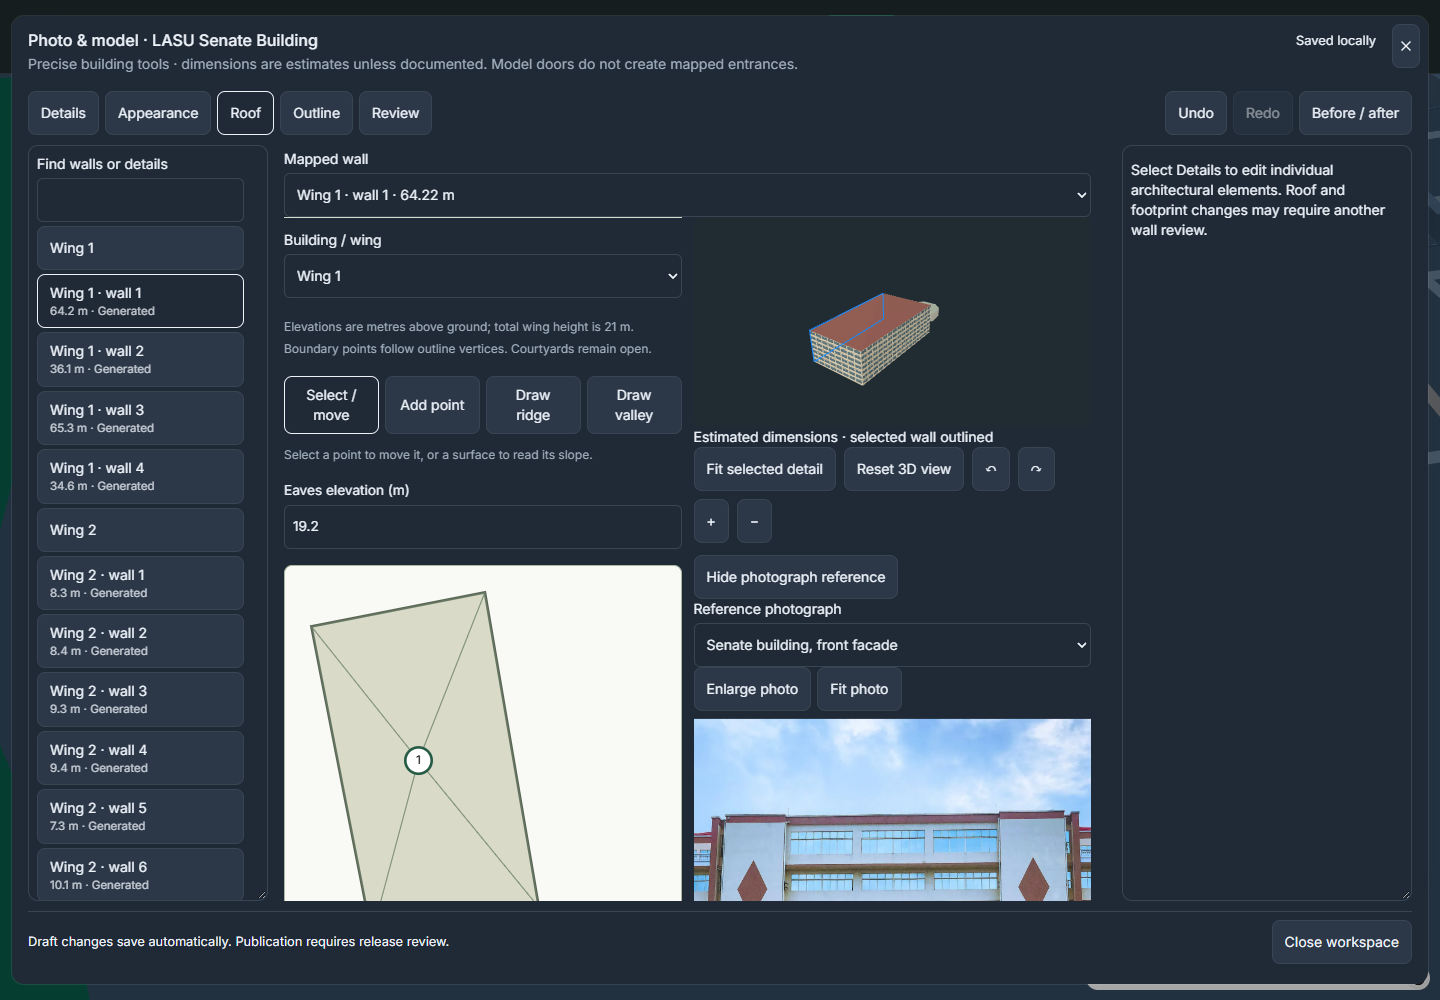
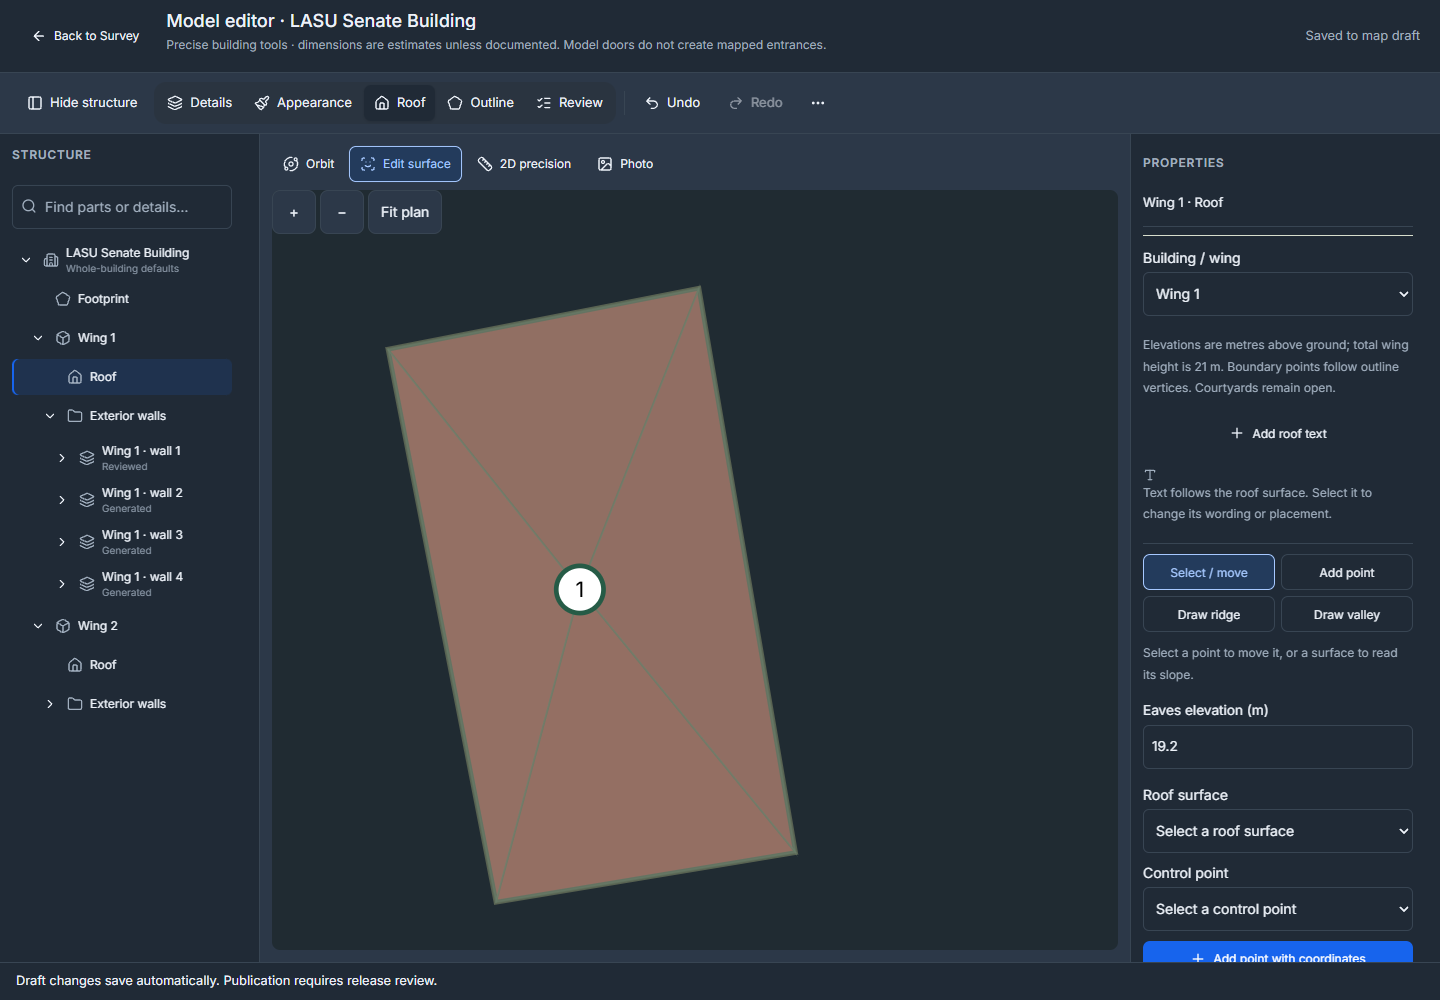
docs: refresh 34 feature screenshots and record final verification

diff --git a/docs/assets/screenshots/README.md b/docs/assets/screenshots/README.md
@@ -1,14 +1,47 @@
 # Application screenshots
 
+## Current surface-editing gallery · 25 September 2026
+
+The root README contains **34 distinct, unaltered PNG screenshots** from the current production build. The verified campus is **`lasu-623791e1184e`**: 395 buildings, 220 places, 39 photographs covering 19 buildings, and 84 package assets totaling 20,098,125 bytes. Owner/API responses are isolated. No production account, private upload, survey or draft is captured or modified. Windows and wall/roof lettering added in the editor are illustrative local examples, not published architectural evidence.
+
+The 26 filename prefixes listed in the earlier inventory below have all been refreshed with the current UI and campus. Eight additional captures, also ending in `-2026-09-25.png`, cover:
+
+| Filename prefix | Current view |
+| --- | --- |
+| `editor-model-wall-text` | Wall lettering with wording and size controls |
+| `editor-model-roof-text` | Roof lettering and properties |
+| `editor-model-tree-actions` | Nested structure, selected window and Ungroup |
+| `editor-model-orbit-current` | Orbit restored after surface editing |
+| `editor-model-landscape` | Model beside one editing panel at 844 × 390 |
+| `editor-sources-current` | Source review and baseline status |
+| `editor-releases-current` | Model review blockers before publication |
+| `editor-survey-current` | Survey workspace before recording |
+
+The building card now shows one Edit model button and a read-only summary. The desktop workspace opens in Orbit. Roof and footprint captures use surface-aligned editing; mobile retains a separate 2D precision example. Desktop images are 1440 × 1000, desktop globe 1440 × 900, portrait 390 × 844, and landscape 844 × 390. Public screens block service workers to avoid an older installed UI. The offline screenshot shows download controls, not proof of a disconnected session. Walking previews use a manual Clinic origin without GPS; the survey screenshot does not start recording.
+
+### Capture the current gallery
+
+From `web/`, use Node 22 and installed dependencies. Fetch and verify the public manifest and its assets with `preservePublished('work/model-benchmark/public', 'https://turnright.vercel.app', true)` from `scripts/published-assets.mjs`, then run:
+
+```sh
+npx playwright test --config playwright.docs.config.ts
+```
+
+The project builds a local production app, supplies isolated owner responses and serves the verified campus. Screenshot paths resolve against the repository regardless of the shell working directory. Run it separately from other GPU browser suites. `TURNRIGHT_DOCS_EDITOR_ONLY=1` refreshes owner views; `TURNRIGHT_DOCS_ROUTES_ONLY=1` refreshes walking previews. Inspect the actual images and update provenance after recapture. Use a new date for a later capture. These Chromium/SwiftShader screenshots do not replace physical-phone, native-keyboard or screen-reader acceptance. See [current verification](../../MODEL-EDITOR-VERIFICATION.md).
+
+## Earlier capture records
+
+The records below describe earlier capture runs. Their counts, package versions and workflow labels are historical. The current gallery above supersedes the earlier 26-image run and landscape capture. Earlier `editor-model-3d-hold`, `editor-release-review-*` and `public-globe-location` files remain regression archives and are excluded from the current README gallery.
+
 The additional `editor-model-landscape-2026-09-25.png` (844 × 320) and `editor-model-3d-hold-2026-09-25.png` (740 × 390) captures show the current Close button, landscape side tools and touch-held 3D actions. They are unaltered Chromium development-server regression captures of an isolated Library fixture, with no private owner content. Run the `landscape model has` and `3D touch hold` browser journeys, then copy their `landscape-reviewed.png` and `3d-long-press-actions.png` test outputs after inspection. The earlier 26-image production-build gallery is retained.
 
 `public-globe-location-2026-09-25.png` shows the live location label and facing cone with **simulated** GPS and orientation, using the real globe renderer and isolated public place fixture. Reproduce with the `globe retains live` browser journey and its `globe-live-location.png` output. It is a UI regression capture, not field-location or sensor-accuracy evidence. Together these three additions bring the README to 29 distinct captures without removing the earlier views.
 
 The additional `editor-release-review-390-2026-09-25.png` and `editor-release-review-1440-2026-09-25.png` captures show named model-release blockers using the isolated Library browser-test fixture. They are development-server regression captures, not production-campus evidence. Regenerate with `TURNRIGHT_CAPTURE_RELEASE=1` and the `release preflight opens` browser tests. The 26 varied production-build README images below remain intact.
 
-## Current unified editor and public gallery
+## Earlier 26-image gallery record
 
[2 lines of base64/hex data omitted]
 
 All current public and owner views are captured by `web/playwright.docs.config.ts`, including the eight focused mobile model views. Public screenshots block service workers to avoid an older installed UI. Offline-download screenshots show the actual interface state, not proof of a disconnected session. Separate production PWA journeys verify preparation and offline reloads.
 

diff --git a/docs/MODEL-EDITOR-VERIFICATION.md b/docs/MODEL-EDITOR-VERIFICATION.md
@@ -27,7 +27,7 @@ validation, save-compatible meshes, draft/public review separation, courtyard
 winding, roof constraints, camera/pointer coordinates and tree references. Client
 and server TypeScript and lint pass with **seven pre-existing warnings**.
 
-**14 focused Chromium cases pass** across the final run and corrected camera-startup follow-up. Browser coverage checks creation, saving/reopening, selection/focus, ungrouping,
+**Three WebKit rotation/landscape workflows pass**, repeated after the final surface fixes. **14 focused Chromium cases pass** across the final run and corrected camera-startup follow-up. Browser coverage checks creation, saving/reopening, selection/focus, ungrouping,
 detachment, text properties and invalid placement, shared roof/footprint edits,
 undo, camera restoration, renderer identity and WebGL startup fallback. Responsive
 checks include 1280×720, 1440×900, 1920×1080 and effective CSS viewport sizes for
@@ -36,8 +36,8 @@ Rotation and keyboard tests simulate browser viewport events and preserve an
 unfinished field. They do not operate physical keyboards or browser zoom chrome.
 
 The configured production build retains all budgets: lazy 3D/editor 217.6 KiB
-gzip (300 KiB limit), public startup about 426 kB (435,200-byte limit), owner
-additional about 184 kB (189,440-byte limit), photo manager 7.6 kB (12,288-byte
+gzip (300 KiB limit), public startup 425,879 gzip bytes (435,200-byte limit), owner
+additional 183,533 bytes (189,440-byte limit), photo manager 7,635 bytes (12,288-byte
 limit), world 5.30 MiB and voice 5.91 MiB / 362 clips (each 8 MiB limit).
 Shared icons remain outside the owner entry; auth-configured checks verify this
 boundary and offline precache inclusion.

diff --git a/docs/BUILDING-EDITOR.md b/docs/BUILDING-EDITOR.md
@@ -14,7 +14,7 @@ The workspace opens in Orbit. Selecting a tree row or mesh shares selection with
 
 ## Select and place
 
-Use the searchable hierarchy, mapped-wall list, face-on canvas or selectable 3D preview. Walls show their mapped length and review state; dimensions are measured from the labelled endpoint and model base. Numeric fields use metres at the editing boundary while saved façade coordinates remain compatible with existing renderers.
+Use the searchable hierarchy, mapped-wall list, face-on canvas or selectable 3D preview. Walls show mapped length and review state. Front views label A → B or B → A to face outside; numeric positions retain distance from the original A endpoint and model base. Numeric fields use metres at the editing boundary while saved façade coordinates remain compatible with existing renderers.
 
 Move and resize on the canvas, enter dimensions, or nudge with arrow keys. The grid offers 0.01, 0.1 and 1 metre increments; Shift multiplies a nudge by ten and Alt bypasses snapping. Multi-selection supports alignment, equal gaps and mirroring. Groups, editable patterns, instance detachment, duplicate, copy-to-wall/building and independent named presets reuse the same command history. Copied layouts receive fresh identities and show a placement preview. Out-of-bounds details require explicit repair.
 

diff --git a/docs/BUILDING-ROOFS.md b/docs/BUILDING-ROOFS.md
@@ -6,7 +6,7 @@ Law Clinic's geometry prerequisite regroups the existing coordinates into two ex
 
 ## Editing
 
-The current mobile workspace shows the geographic roof plan in the main canvas. Use **Edit roof** for controls, **Done** to close the sheet, and **Move point** after selecting a point. Panning or a second touch does not commit roof geometry. Desktop retains the integrated plan and properties panels.
+The mobile workspace supports surface-aligned roof editing and a secondary geographic 2D precision view in the main viewport. Use **Edit roof** for controls, **Done** to close the sheet, and **Move point** after selecting a point. Panning or a second touch does not commit roof geometry. Desktop retains the integrated plan and properties panels.
 
 Whole-building **Appearance → Building height** now offers proportional adjustment of inherited custom roofs. It scales eaves and all roof-point elevations together while retaining plan coordinates, constraints and detail dimensions. The option is on by default; turn it off to preserve recorded roof elevations. Wing height overrides remain explicit. Existing height/roof mismatches can be fitted by an owner action. This is an estimated transformation requiring review, not new measured evidence, and the complete change is one undoable command.
 
